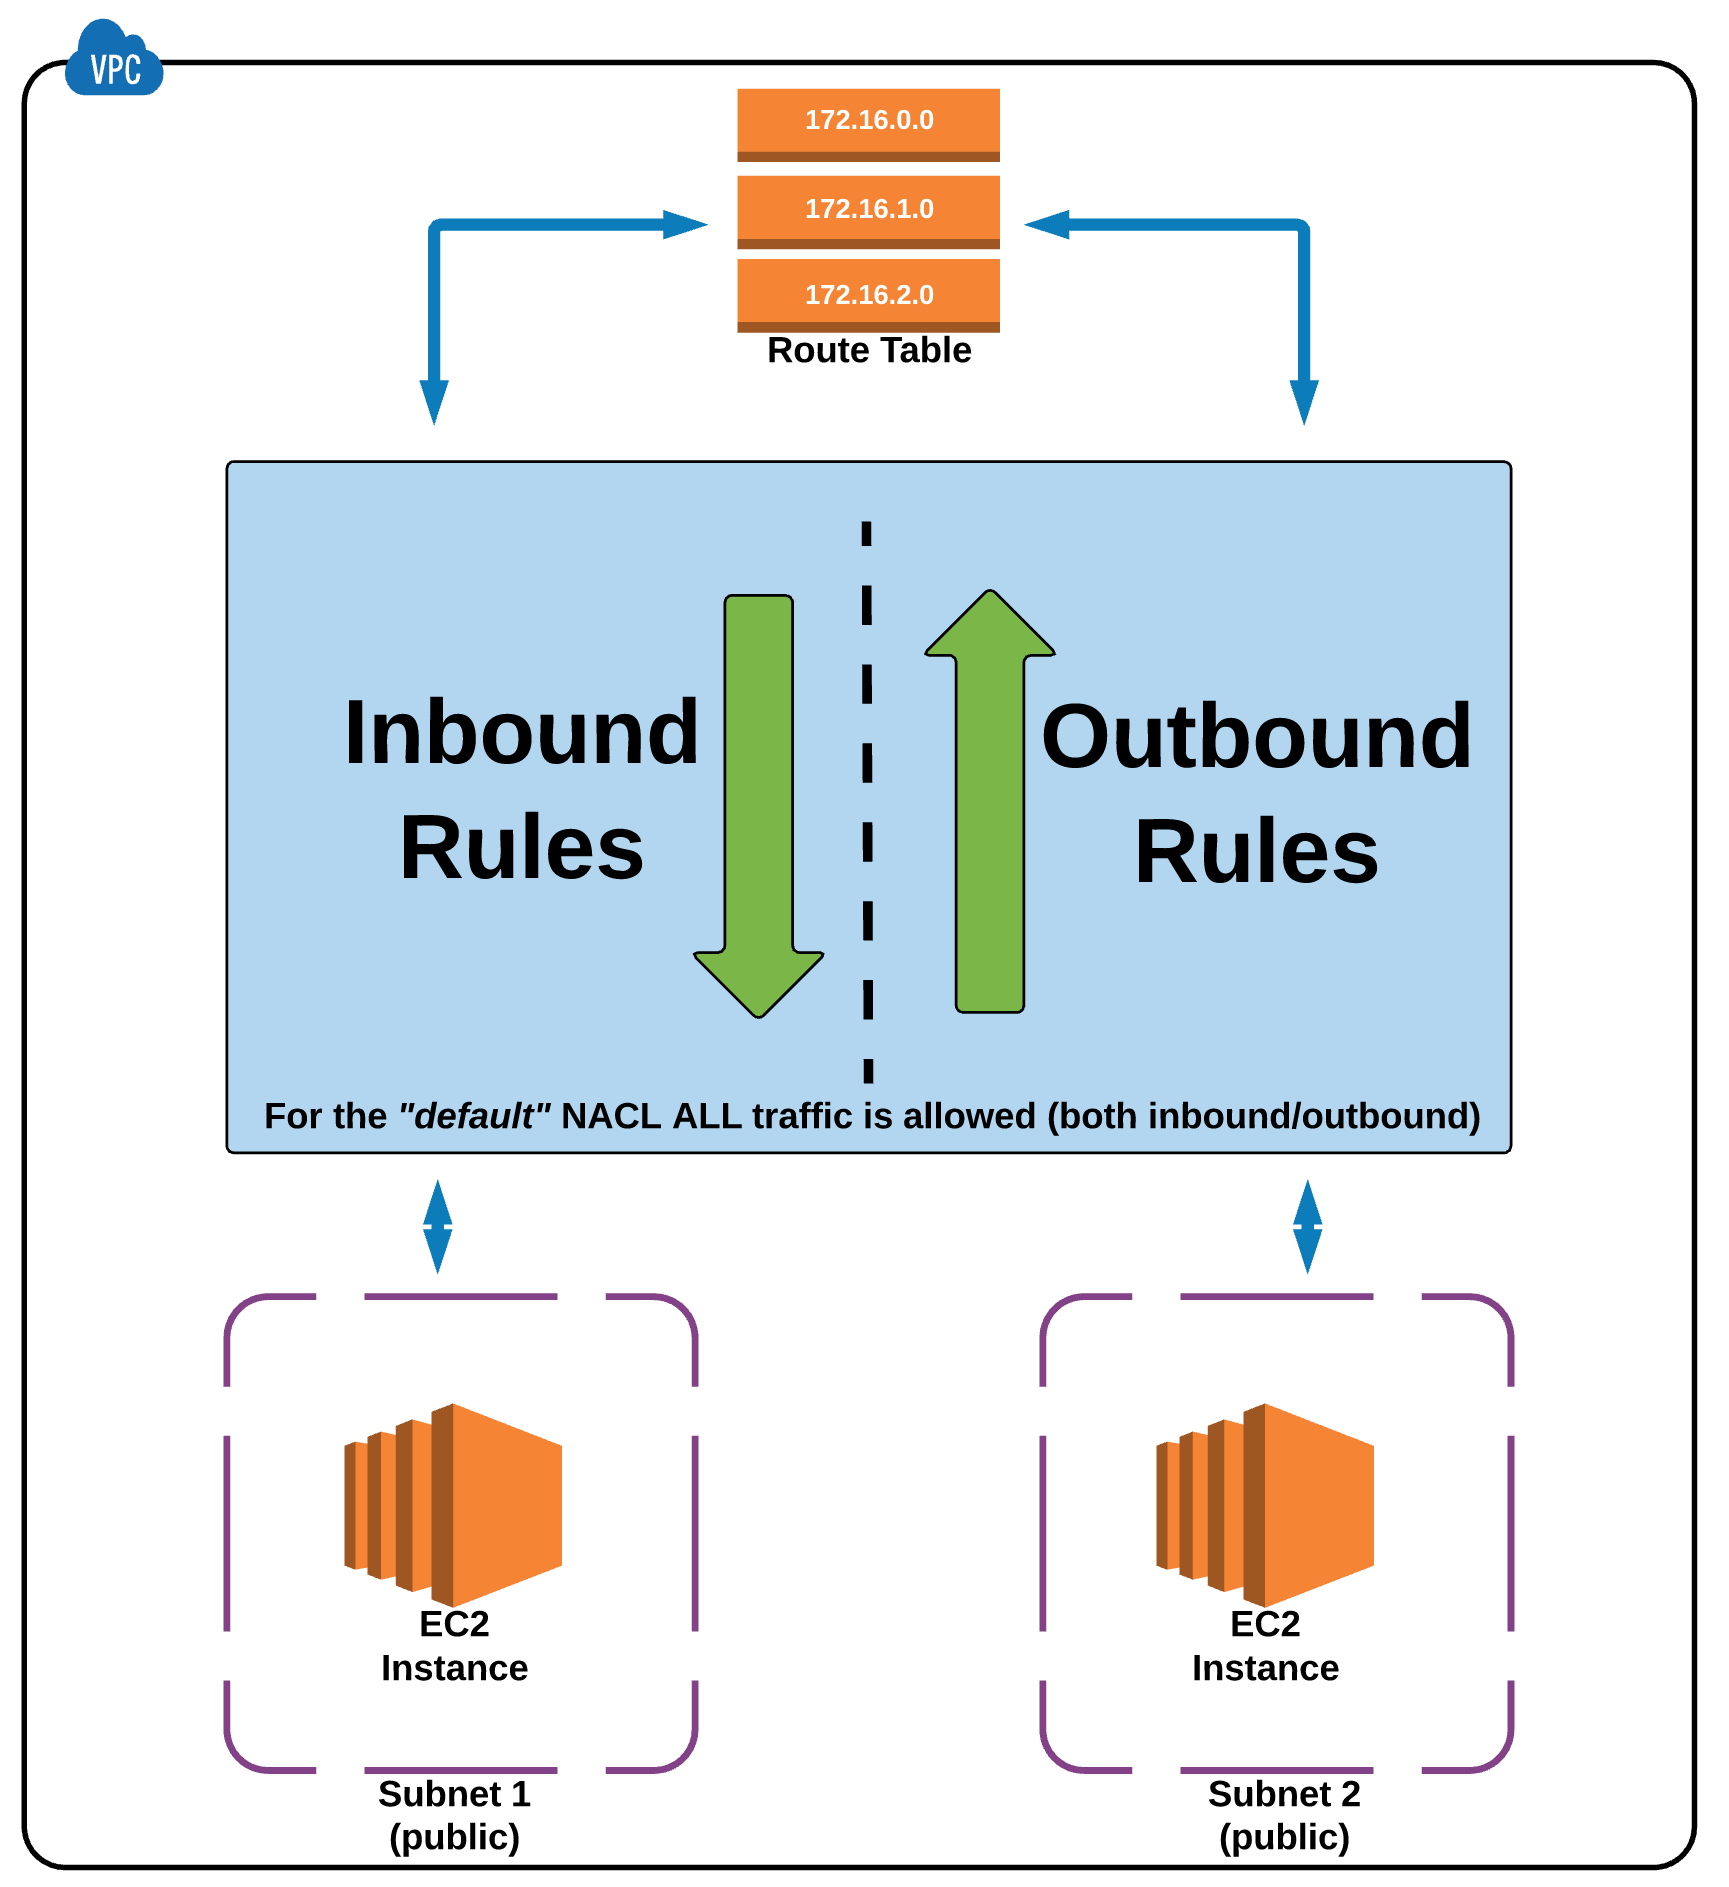
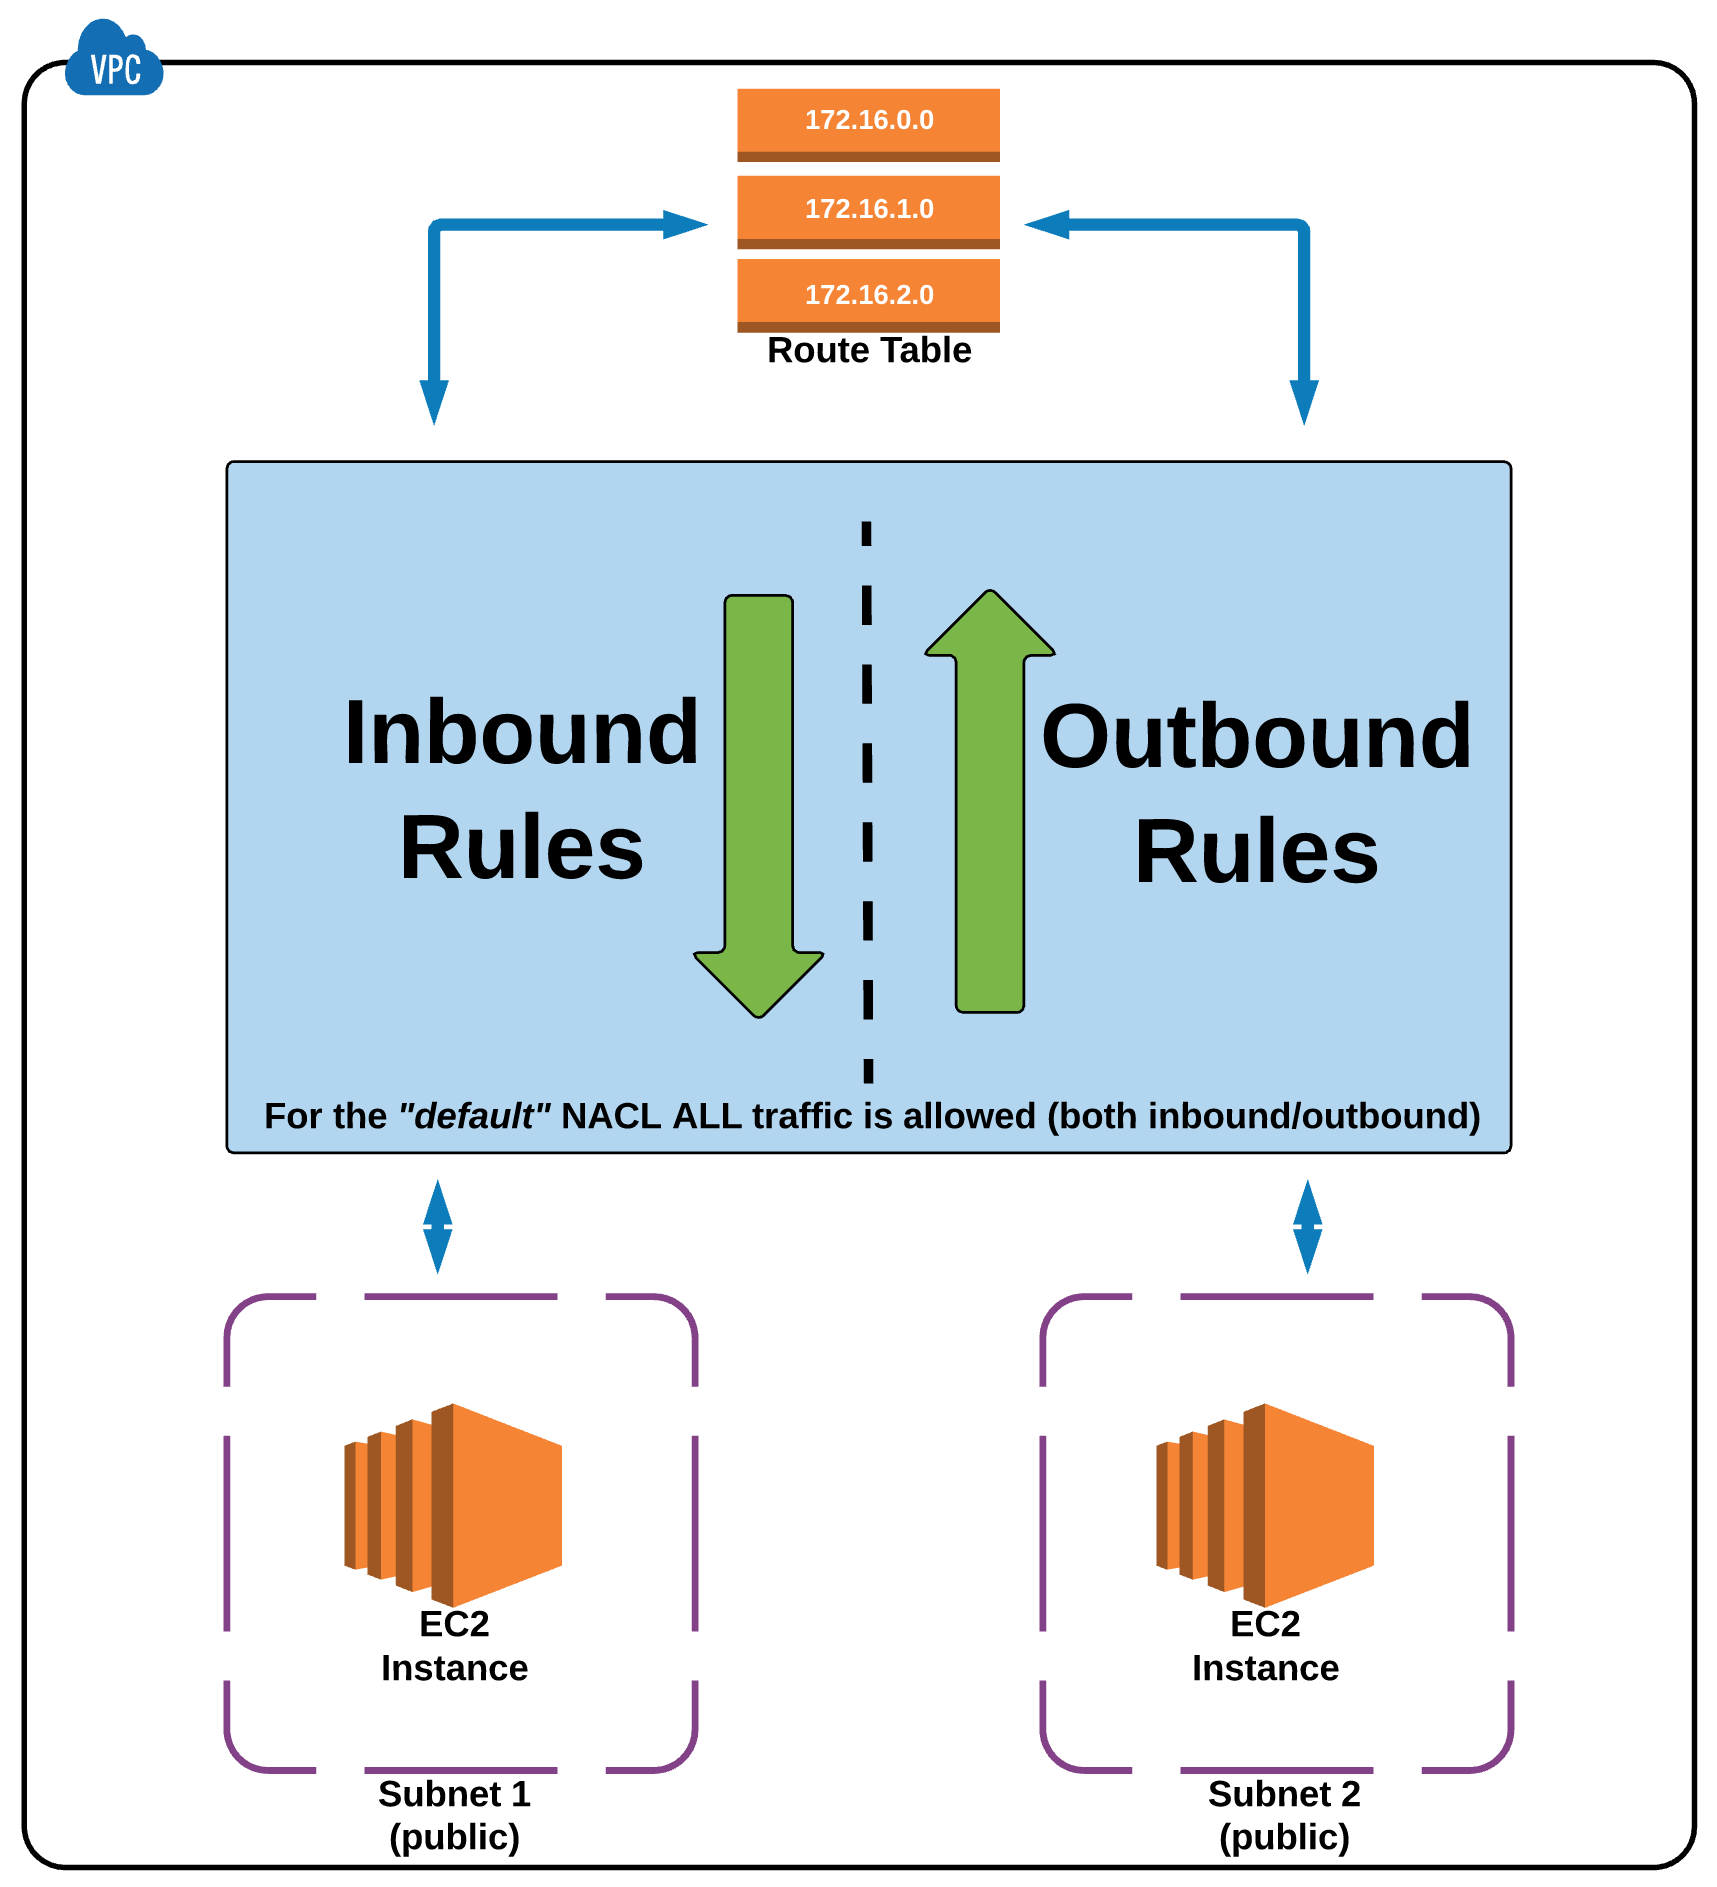
nacl-diagram

diff --git a/01-vpc-essentials/README.md b/01-vpc-essentials/README.md
@@ -103,7 +103,7 @@ When creating an AWS account, a **Default VPC** is created for us, including the
 </div>
 <br/>
 
-<div align="center"><img src="assets/nacl-diagram.png" width="600"></div>
+<div align="center"><img src="assets/nacl-diagram.png" width="650"></div>
 
 
 ## Subnets
